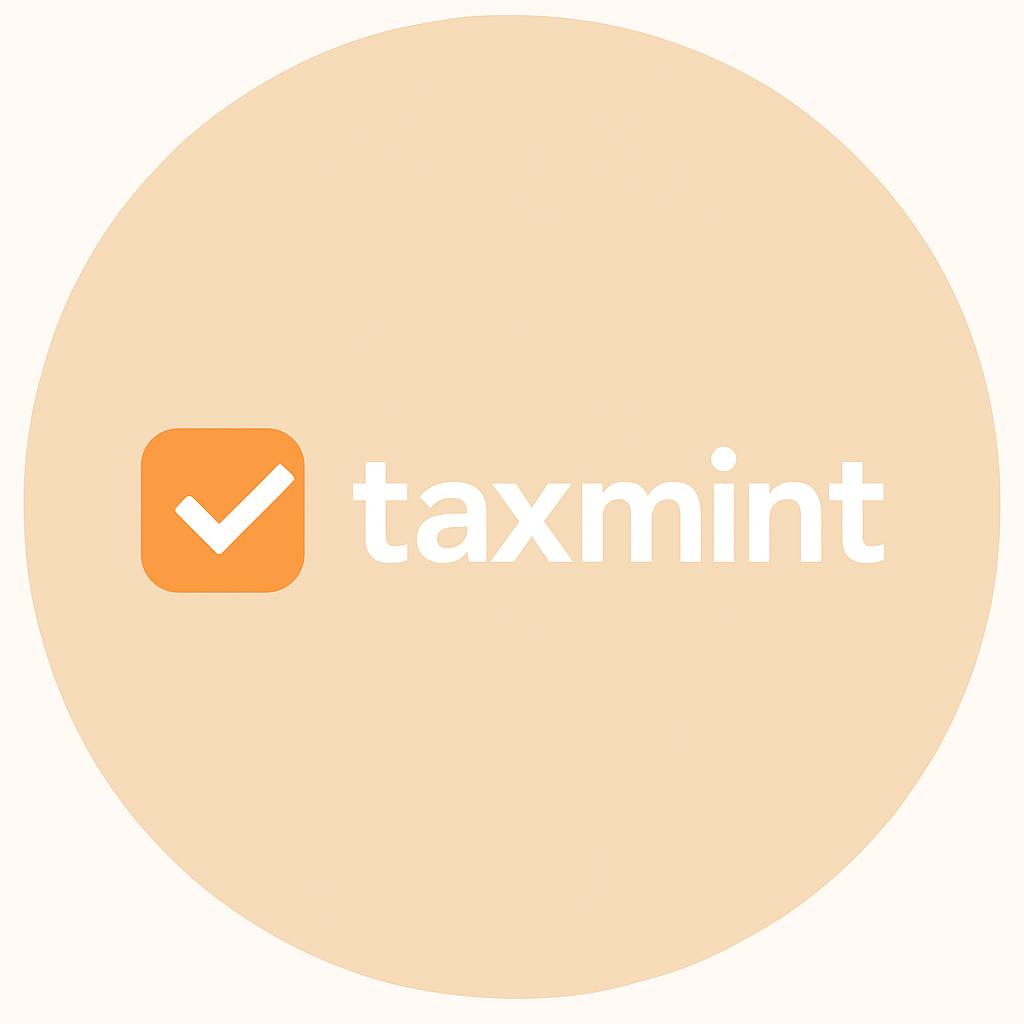
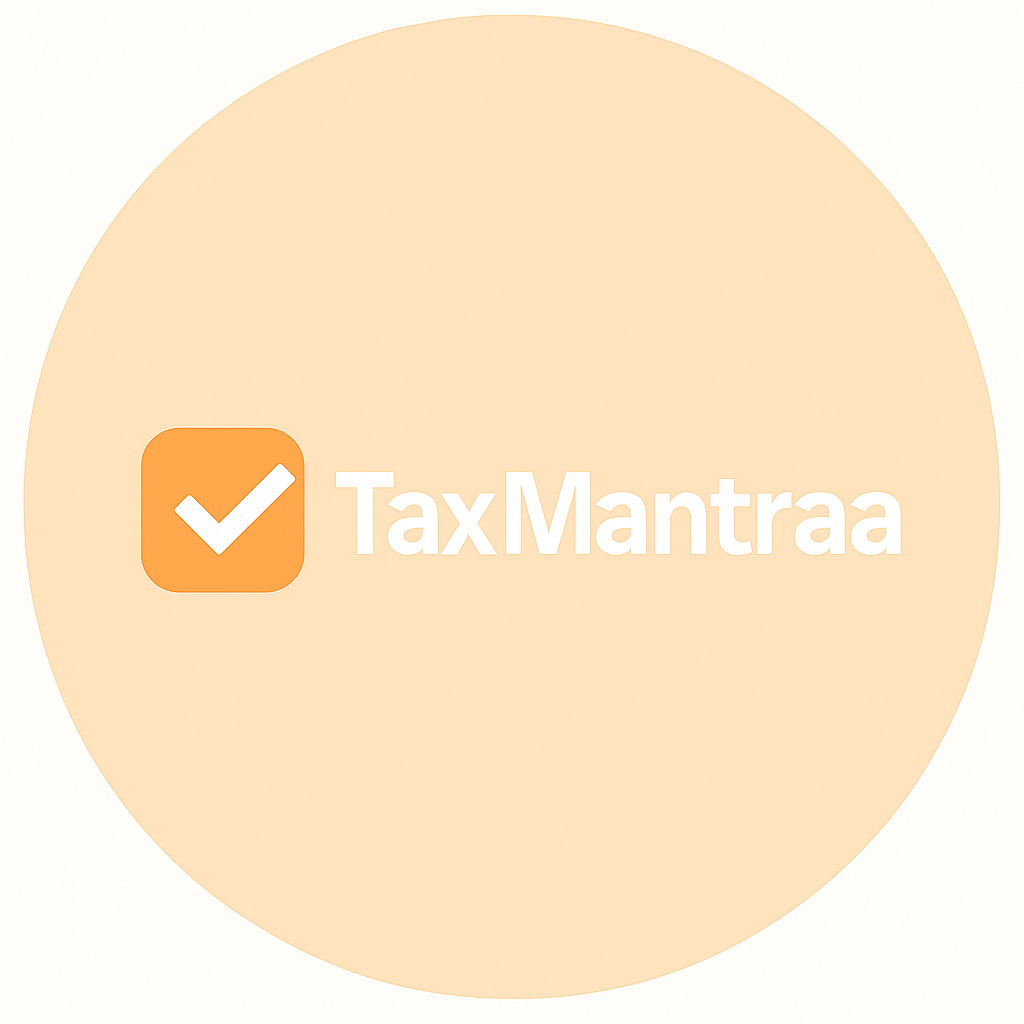
Minor changes and changes site name to TaxMantraa

Changed region(s): [[0.3125, 0.4375, 0.9062, 0.5625], [0.1875, 0.4062, 0.25, 0.4375]]

diff --git a/components/About.jsx b/components/About.jsx
@@ -15,7 +15,7 @@ const About = ({isDarkMode}) => {
       whileInView={{opacity: 1, y: 0}}
       transition={{duration: 0.5, delay: 0.3}}
       className='text-center mb-2 text-lg font-Ovo font-semibold'>
-        TaxMint</motion.h4>
+        TaxMantraa</motion.h4>
 
       <motion.h2 
       initial={{opacity: 0, y: -20}}
@@ -33,7 +33,7 @@ const About = ({isDarkMode}) => {
             initial={{opacity: 0, scale: 0.9}}
             whileInView={{opacity: 1, scale: 1}}
             transition={{duration: 0.6}}
-            className='w-64 sm:w-80 rounded-3xl max-w-none -mt-10'>
+            className='w-64 sm:w-80 rounded-3xl max-w-none -mt-8'>
                 <Image src={assets.user_image} alt='user' className='w-full rounded-3xl'/>
             </motion.div>
             <motion.div 
@@ -67,7 +67,7 @@ const About = ({isDarkMode}) => {
                 initial={{ y: 20, opacity: 0 }}
                 whileInView={{ y: 0, opacity: 1 }}
                 transition={{ delay: 1.3, duration: 0.5 }}
-                className='my-6 text-gray-700 font-Ovo dark:text-white/80'>💸💸💸TaxMint - Your Trusted Partner in Tax & Compliance</motion.h4>
+                className='my-6 text-gray-700 font-Ovo dark:text-white/80'>💸💸💸TaxMantraa - Your Trusted Partner in Tax & Compliance</motion.h4>
             </motion.div>
         </motion.div>
     </motion.div>

diff --git a/components/Footer.jsx b/components/Footer.jsx
@@ -10,10 +10,6 @@ const Footer = ({ isDarkMode }) => {
 
         <div className='w-max flex items-center gap-2 mx-auto'>
           <Image src={isDarkMode ? assets.mail_icon_dark : assets.mail_icon} alt='' className='w-6' />
-          taxmint21@gmail.com
-        </div>
-        <div className='w-max flex items-center gap-2 mx-auto'>
-          <Image src={isDarkMode ? assets.mail_icon_dark : assets.mail_icon} alt='' className='w-6' />
           Timings: 10 AM – 7 PM | Monday to Saturday
         </div>
       </div>

diff --git a/components/WhyUs.jsx b/components/WhyUs.jsx
@@ -16,7 +16,7 @@ const Work = ({isDarkMode}) => {
       whileInView={{ y: 0, opacity: 1 }}
       transition={{ delay: 0.3, duration: 0.5 }}
       className='text-center mb-2 text-lg font-Ovo'>
-      TaxMint</motion.h4>
+      TaxMantraa</motion.h4>
 
       <motion.h2
       initial={{ y: -20, opacity: 0 }}

diff --git a/app/layout.js b/app/layout.js
@@ -12,7 +12,7 @@ const ovo = Ovo({
 
 
 export const metadata = {
-  title: "TaxMint - Tax Solutions",
+  title: "TaxMantraa - Tax Solutions",
   description: "",
 };
 
